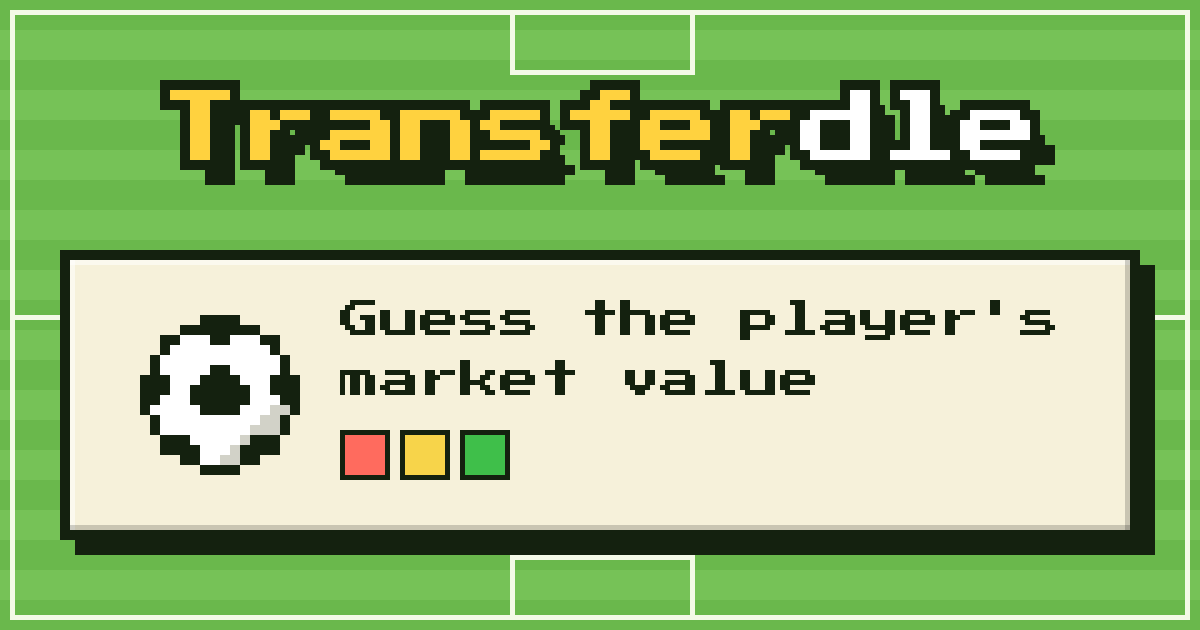
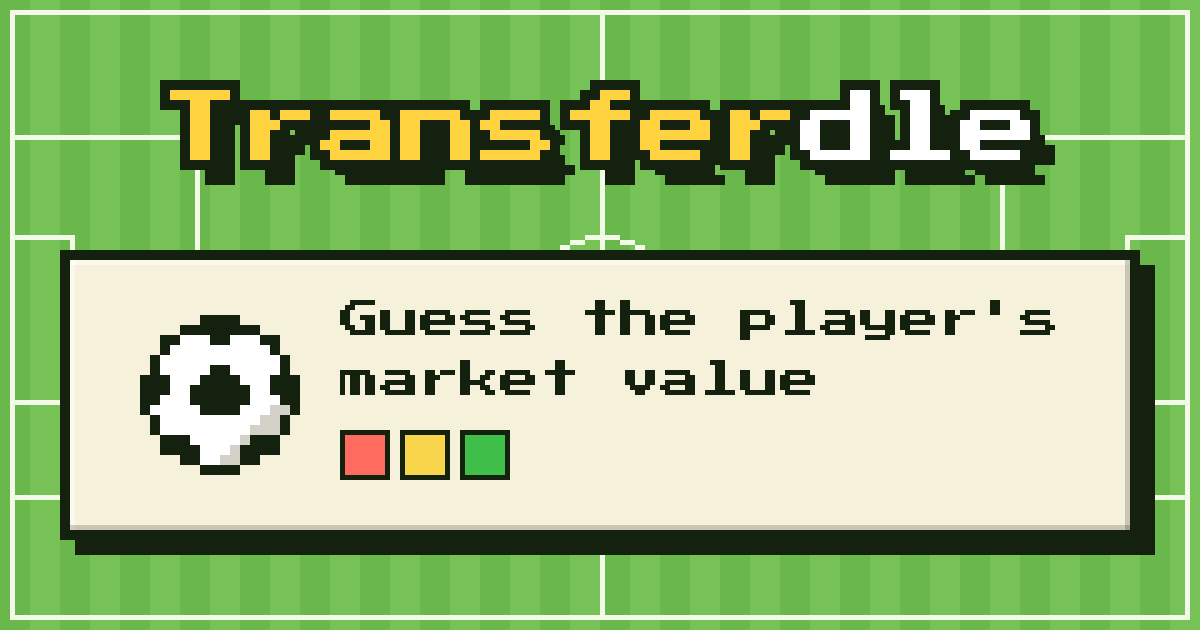
Add Vercel Web Analytics and an orientation-aware, proportional pitch
- Analytics component plus three coarse engagement events (game_started,
  game_completed, share_clicked); no player, value or date in any property
- Pitch background turns to suit the screen: goals left/right on landscape
  (laptops), top/bottom on portrait (phones); every marking is a fraction of
  the pitch using real 105x68 proportions, so it fills any screen size
- Ignore small height-only resizes (mobile address bar) so lines don't jump
- Regenerate og-image to match; tests for orientation and scaling

diff --git a/src/lib/pitch.ts b/src/lib/pitch.ts
@@ -5,43 +5,75 @@ export const LINE = 2
 
 const clamp = (n: number, lo: number, hi: number) => Math.min(hi, Math.max(lo, n))
 
+// Real pitch proportions (FIFA 105 x 68 m), as fractions of the pitch's length and width.
+const PENALTY_DEPTH = 16.5 / 105
+const PENALTY_WIDTH = 40.3 / 68
+const GOAL_BOX_DEPTH = 5.5 / 105
+const GOAL_BOX_WIDTH = 18.3 / 68
+const PENALTY_SPOT = 11 / 105
+const CIRCLE_RADIUS = 9.15 / 68
+
 /**
- * A top-down football pitch as a cols x rows grid of cells (row-major):
- * mown stripes, touchlines, penalty boxes, the halfway line, centre circle and
- * centre spot. Pure so it can be tested; the canvas component just paints it.
+ * A top-down football pitch as a cols x rows grid of cells (row-major).
+ * The pitch is turned to suit the screen: on a landscape screen (laptops) the
+ * goals are at the left and right and the halfway line is vertical; on a
+ * portrait screen (phones) the goals are top and bottom. Every marking is sized
+ * as a fraction of the pitch, so it fills the screen at any size. Pure so it can
+ * be tested; the canvas component just paints it.
  */
 export function pitchGrid(cols: number, rows: number): Uint8Array {
+  if (cols <= rows) return portraitPitch(cols, rows)
+  // Landscape: draw the portrait pitch for the rotated screen, then transpose.
+  const p = portraitPitch(rows, cols)
   const grid = new Uint8Array(cols * rows)
-  const stripe = 6
-  for (let y = 0; y < rows; y++) {
-    grid.fill(Math.floor(y / stripe) % 2 === 0 ? GRASS_A : GRASS_B, y * cols, (y + 1) * cols)
+  for (let y = 0; y < rows; y++) for (let x = 0; x < cols; x++) grid[y * cols + x] = p[x * rows + y]
+  return grid
+}
+
+/** Pitch with its length along the y axis (goals at top and bottom). */
+function portraitPitch(w: number, h: number): Uint8Array {
+  const grid = new Uint8Array(w * h)
+  const stripe = 6 // mowing stripes run across the pitch, so they are rows here
+  for (let y = 0; y < h; y++) {
+    grid.fill(Math.floor(y / stripe) % 2 === 0 ? GRASS_A : GRASS_B, y * w, (y + 1) * w)
   }
 
   const plot = (x: number, y: number) => {
-    if (x >= 0 && x < cols && y >= 0 && y < rows) grid[y * cols + x] = LINE
+    if (x >= 0 && x < w && y >= 0 && y < h) grid[y * w + x] = LINE
   }
   const hLine = (x0: number, x1: number, y: number) => { for (let x = x0; x <= x1; x++) plot(x, y) }
   const vLine = (x: number, y0: number, y1: number) => { for (let y = y0; y <= y1; y++) plot(x, y) }
   const rect = (x0: number, y0: number, x1: number, y1: number) => {
     hLine(x0, x1, y0); hLine(x0, x1, y1); vLine(x0, y0, y1); vLine(x1, y0, y1)
   }
+  // 3x3 so it is centred on a one-cell line (a 2x2 spot would sit off to one side).
+  const spot = (x: number, y: number) => { for (let dx = -1; dx <= 1; dx++) for (let dy = -1; dy <= 1; dy++) plot(x + dx, y + dy) }
 
-  const m = cols < 24 || rows < 24 ? 1 : 2 // margin around the pitch
-  const left = m, right = cols - 1 - m, top = m, bottom = rows - 1 - m
-  const cx = Math.floor(cols / 2), cy = Math.floor(rows / 2)
+  const m = w < 24 || h < 24 ? 1 : 2 // margin around the pitch
+  const left = m, right = w - 1 - m, top = m, bottom = h - 1 - m
+  const pw = Math.max(1, right - left), ph = Math.max(1, bottom - top)
+  const cx = Math.floor(w / 2), cy = Math.floor(h / 2)
 
   rect(left, top, right, bottom) // touchlines and goal lines
   hLine(left, right, cy) // halfway line
 
-  // Penalty boxes at each end.
-  const boxW = clamp(Math.round(cols * 0.5), 10, 36)
-  const boxH = clamp(Math.round(rows * 0.12), 4, 12)
-  const bx0 = Math.max(left, cx - Math.floor(boxW / 2)), bx1 = Math.min(right, bx0 + boxW)
-  rect(bx0, top, bx1, top + boxH)
-  rect(bx0, bottom - boxH, bx1, bottom)
+  // Penalty and goal boxes at each end, centred on the goal.
+  const box = (width: number, depth: number) => {
+    const x0 = Math.max(left, cx - Math.floor(width / 2))
+    const x1 = Math.min(right, x0 + width)
+    rect(x0, top, x1, top + depth)
+    rect(x0, bottom - depth, x1, bottom)
+  }
+  box(Math.max(6, Math.round(pw * PENALTY_WIDTH)), Math.max(3, Math.round(ph * PENALTY_DEPTH)))
+  box(Math.max(4, Math.round(pw * GOAL_BOX_WIDTH)), Math.max(2, Math.round(ph * GOAL_BOX_DEPTH)))
+  if (ph >= 40) { // penalty spots, skipped when there is no room for them
+    spot(cx, top + Math.round(ph * PENALTY_SPOT))
+    spot(cx, bottom - Math.round(ph * PENALTY_SPOT))
+  }
 
-  // Centre circle (midpoint circle algorithm) and spot.
-  const r = clamp(Math.round(Math.min(cols, rows) * 0.18), 4, 12)
+  // Centre circle (midpoint circle algorithm) and spot. Sized from the short
+  // side so it stays a true circle.
+  const r = clamp(Math.round(Math.min(pw, ph) * CIRCLE_RADIUS), 3, Math.max(3, Math.floor(ph / 2) - 1))
   let x = r, y = 0, err = 1 - r
   while (x >= y) {
     for (const [dx, dy] of [[x, y], [y, x], [-y, x], [-x, y], [-x, -y], [-y, -x], [y, -x], [x, -y]]) plot(cx + dx, cy + dy)
@@ -49,7 +81,7 @@ export function pitchGrid(cols: number, rows: number): Uint8Array {
     if (err < 0) err += 2 * y + 1
     else { x--; err += 2 * (y - x) + 1 }
   }
-  plot(cx, cy); plot(cx - 1, cy); plot(cx, cy - 1); plot(cx - 1, cy - 1)
+  spot(cx, cy)
 
   return grid
 }

diff --git a/src/App.tsx b/src/App.tsx
@@ -1,10 +1,12 @@
 import { useEffect, useReducer, useState } from 'react'
+import { Analytics } from '@vercel/analytics/react'
 import { PLAYERS } from './data/players'
 import { scheduledPlayer } from './data/schedule'
 import { PitchBackground } from './components/PitchBackground'
 import { PlayerCard } from './components/PlayerCard'
 import { GuessBoard } from './components/GuessBoard'
 import { Results } from './components/Results'
+import { trackEvent } from './lib/analytics'
 import { dailyPlayer, gameReducer, gameStatus, isDuplicateGuess, newGame, pickPlayer } from './lib/game'
 import { MAX_M, MIN_M, formatValue, parseGuess } from './lib/scoring'
 import { dateKey } from './lib/seed'
@@ -43,7 +45,9 @@ export default function App() {
   // StrictMode's double effect can't double-count.
   useEffect(() => {
     if (!over) return
-    const next = recordResult(loadStats(), TODAY, status === 'won', guesses.length)
+    const before = loadStats()
+    const next = recordResult(before, TODAY, status === 'won', guesses.length)
+    if (before.lastPlayedDate !== TODAY) trackEvent({ name: 'game_completed', won: status === 'won', guesses: guesses.length })
     saveStats(next)
     setStats(next)
   }, [over, status, guesses.length])
@@ -60,6 +64,7 @@ export default function App() {
     }
     setError(null)
     setText('')
+    if (guesses.length === 0) trackEvent({ name: 'game_started' })
     dispatch({ type: 'guess', value })
   }
 
@@ -74,6 +79,7 @@ export default function App() {
   return (
     <>
     <PitchBackground />
+    <Analytics />
     <main className="app">
       <header>
         <h1>Transfer<span>dle</span></h1>

diff --git a/src/lib/lib.test.ts b/src/lib/lib.test.ts
@@ -114,6 +114,30 @@ describe('pitchGrid', () => {
     expect(at(0, 0)).toBe(GRASS_A)
     expect(at(0, 6)).toBe(GRASS_B)
   })
+  it('turns landscape (laptop) screens so the goals are at the left and right', () => {
+    const c = 120, r = 60, l = pitchGrid(c, r)
+    const lat = (x: number, y: number) => l[y * c + x]
+    const x = Math.floor(c / 2)
+    for (let y = 2; y <= r - 3; y++) expect(lat(x, y)).toBe(LINE) // vertical halfway line
+    for (let y = 2; y <= r - 3; y++) { expect(lat(2, y)).toBe(LINE); expect(lat(c - 3, y)).toBe(LINE) } // goal lines
+    expect(lat(x, 0)).not.toBe(LINE)
+  })
+  it('scales the markings with the screen', () => {
+    // Distance from the goal line to the first line inside it (the goal box) along the middle row.
+    const goalBoxDepth = (c: number, r: number) => {
+      const g = pitchGrid(c, r), y = Math.floor(r / 2) - 3
+      for (let x = 3; x < c; x++) if (g[y * c + x] === LINE) return x - 2
+      return 0
+    }
+    expect(goalBoxDepth(300, 120)).toBeGreaterThan(goalBoxDepth(120, 60))
+  })
+  it('keeps every marking on screen for phone and laptop sizes', () => {
+    for (const [c, r] of [[49, 106], [106, 49], [171, 82], [320, 180]]) {
+      const g = pitchGrid(c, r)
+      expect(g.length).toBe(c * r)
+      expect(g.filter((v) => v === LINE).length).toBeGreaterThan(c + r)
+    }
+  })
   it('survives tiny viewports', () => {
     expect(() => pitchGrid(5, 5)).not.toThrow()
   })

diff --git a/src/components/PitchBackground.tsx b/src/components/PitchBackground.tsx
@@ -19,9 +19,10 @@ export function PitchBackground() {
     if (!canvas || !ctx) return
 
     let frame = 0
+    let cols = 0, rows = 0
     const paint = () => {
-      const cols = Math.ceil(window.innerWidth / CELL)
-      const rows = Math.ceil(window.innerHeight / CELL)
+      cols = Math.ceil(window.innerWidth / CELL)
+      rows = Math.ceil(window.innerHeight / CELL)
       canvas.width = cols
       canvas.height = rows
       const grid = pitchGrid(cols, rows)
@@ -33,6 +34,11 @@ export function PitchBackground() {
       ctx.putImageData(img, 0, 0)
     }
     const onResize = () => {
+      // Phone browsers resize the viewport by ~100px as the address bar slides
+      // in and out while scrolling. Ignore a height-only change that small so the
+      // lines don't jump; a rotation or window resize still redraws.
+      const sameWidth = Math.ceil(window.innerWidth / CELL) === cols
+      if (sameWidth && Math.abs(Math.ceil(window.innerHeight / CELL) - rows) * CELL < 120) return
       cancelAnimationFrame(frame)
       frame = requestAnimationFrame(paint)
     }

diff --git a/src/components/Results.tsx b/src/components/Results.tsx
@@ -2,6 +2,7 @@ import { useEffect, useState } from 'react'
 import type { Player } from '../types'
 import { MAX_GUESSES } from '../lib/game'
 import { msUntilNextDay } from '../lib/seed'
+import { trackEvent } from '../lib/analytics'
 import { buildShareText } from '../lib/share'
 import type { Stats } from '../lib/stats'
 import { FEEDBACK_EMOJI, feedback, formatValue } from '../lib/scoring'
@@ -32,6 +33,7 @@ export function Results({ date, player, guesses, won, stats }: Props) {
   const grid = guesses.map((g) => FEEDBACK_EMOJI[feedback(g, player.valueM)]).join('')
 
   async function share() {
+    trackEvent({ name: 'share_clicked' })
     const text = buildShareText(date, guesses, player.valueM, won, window.location.origin + window.location.pathname)
     try {
       if (navigator.share) {

diff --git a/src/lib/analytics.ts b/src/lib/analytics.ts
@@ -1,0 +1,20 @@
+import { track } from '@vercel/analytics'
+
+/**
+ * Engagement events for Vercel Web Analytics. Properties are deliberately
+ * coarse: never include the player, the value, the date or what was typed
+ * (spoilers, and nothing identifying is needed).
+ */
+export type AnalyticsEvent =
+  | { name: 'game_started' } // first guess of the day
+  | { name: 'game_completed'; won: boolean; guesses: number }
+  | { name: 'share_clicked' }
+
+export function trackEvent(event: AnalyticsEvent): void {
+  const { name, ...props } = event
+  try {
+    track(name, props)
+  } catch {
+    // Analytics must never break the game (blocked script, offline, etc.).
+  }
+}

diff --git a/README.md b/README.md
@@ -62,3 +62,18 @@ The tags are static on purpose: never put the day's player, value or date in the
 - **Image:** `public/og-image.png` (1200x630) is generated by `npm run og` (`scripts/build-og.ts`). It reuses the app's pitch, palette and font, and is drawn at 240x126 then scaled exactly 5x so every edge is a hard pixel. Regenerate and commit it after changing the wordmark, colours or tagline.
 - **Absolute URLs:** platforms require them, so `index.html` uses `__SITE_URL__`, filled in at build time by `vite.config.ts` from `scripts/site-url.ts`. Production and local builds use `https://transferdle.vercel.app`; Vercel *preview* builds use their own URL so a preview's image resolves. If the domain changes, edit `PRODUCTION_URL` in `scripts/site-url.ts`.
 - **Testing:** platforms only fetch public URLs, so test a deployed URL (e.g. with opengraph.xyz), not localhost. They cache aggressively; if a preview looks stale, re-scrape it with the platform's debugger or add a throwaway `?v=2` to the URL you paste.
+
+## Analytics
+
+[Vercel Web Analytics](https://vercel.com/docs/analytics) (cookieless, no personal data) via `<Analytics />` in `src/App.tsx`.
+It only reports from a Vercel deployment: turn it on once under **Project > Analytics** in the Vercel dashboard. Page views and referrers work on every plan.
+
+Three custom events (`src/lib/analytics.ts`) measure engagement, and may need a plan that includes custom events:
+
+| Event | When | Properties |
+| --- | --- | --- |
+| `game_started` | first guess of the day | none |
+| `game_completed` | the game ends (once per day) | `won`, `guesses` |
+| `share_clicked` | Share button pressed | none |
+
+Properties are deliberately coarse: never send the player, the value, the date or what was typed.
